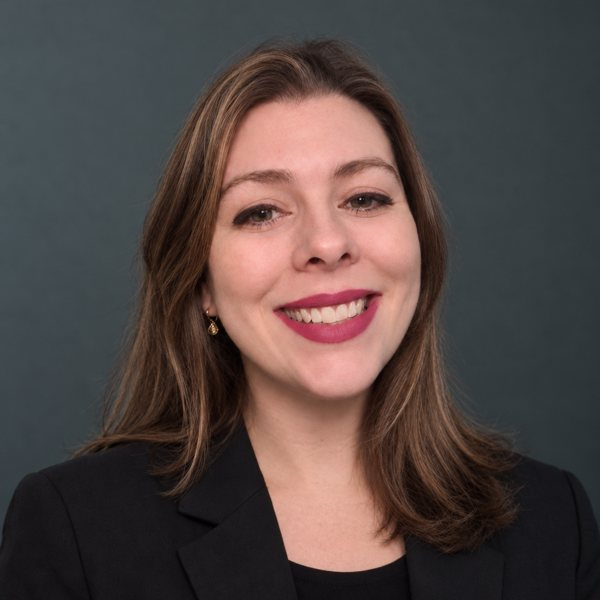
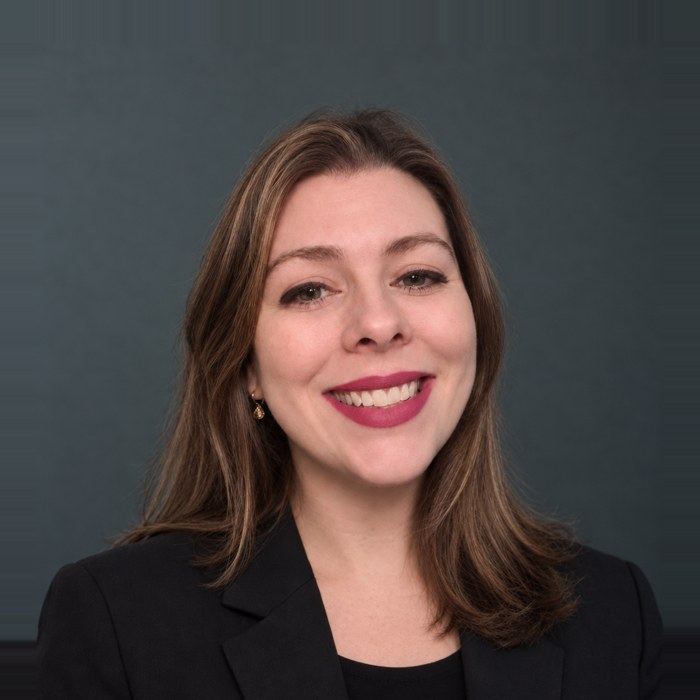
People page: fix photo scale/quality across sections
- Prudence photo re-cropped wider (edge-padded) to match Matt & Sam's scale.
- Board of directors: compact small B&W circular avatars (grid-4, grayscale) so
  the low-res 146px source renders crisp instead of enlarged/fuzzy.
- Luke & Nici: upscaled 3x (Lanczos) + unsharp mask for a sharper look, kept in
  colour on their existing background. Handover rebuilt.

Changed region(s): [[0.0, 0.06, 0.99, 0.96], [0.45, 0.84, 0.48, 0.93], [0.48, 0.93, 0.54, 0.96]]

diff --git a/css/styles.css b/css/styles.css
@@ -640,3 +640,12 @@ section { position: relative; }
 .app-pill { display: inline-flex; align-items: center; gap: 10px; border: 1.5px solid var(--line); border-radius: 999px; padding: 13px 26px; color: var(--ink-900); font-weight: 700; font-family: var(--font-head); text-decoration: none; transition: border-color .16s ease, color .16s ease, transform .16s ease; }
 .app-pill:hover { border-color: var(--blue-500); color: var(--blue-600); transform: translateY(-2px); }
 .app-pill svg { width: 20px; height: 20px; }
+
+/* Board of directors — compact black & white avatars (small display = crisp from low-res source) */
+.people-board .person { text-align: center; }
+.people-board .person .photo { width: 104px; height: 104px; aspect-ratio: auto; border-radius: 50%; margin: 22px auto 2px; overflow: hidden; filter: grayscale(1) contrast(1.04); background: var(--bg-tint); }
+.people-board .person .body { padding: 10px 18px 24px; }
+.people-board .person .role { font-size: .72rem; }
+.people-board .person h3 { font-size: 1.05rem; margin-top: 4px; }
+.people-board .person .bio { font-size: .84rem; margin-top: 8px; }
+.people-board .person .li { justify-content: center; }

diff --git a/handover/pages/people.html b/handover/pages/people.html
@@ -104,7 +104,7 @@
       <span class="eyebrow">Board of directors</span>
       <h2>Governance &amp; experience</h2>
     </div>
-    <div class="grid grid-3">
+    <div class="grid grid-4 people-board">
       <article class="person reveal">
         <div class="photo"><img src="https://www.escavox.com/wp-content/uploads/escavox-site/img/team/richard-mckinnon.png" alt="Richard McKinnon" onerror="this.style.display='none';this.nextElementSibling.style.display='grid';"><div class="initials" style="display:none">RM</div></div>
         <div class="body"><div class="role">Chair</div><h3>Richard McKinnon</h3><p class="bio">A 50-year career in business. Former investment banker who implemented a multi-billion-dollar acquisition strategy at NAB, culminating as its CFO. Chair of Escavox since 2023.</p></div>

diff --git a/people.html b/people.html
@@ -109,7 +109,7 @@
       <span class="eyebrow">Board of directors</span>
       <h2>Governance &amp; experience</h2>
     </div>
-    <div class="grid grid-3">
+    <div class="grid grid-4 people-board">
       <article class="person reveal">
         <div class="photo"><img src="assets/img/team/richard-mckinnon.png" alt="Richard McKinnon" onerror="this.style.display='none';this.nextElementSibling.style.display='grid';"><div class="initials" style="display:none">RM</div></div>
         <div class="body"><div class="role">Chair</div><h3>Richard McKinnon</h3><p class="bio">A 50-year career in business. Former investment banker who implemented a multi-billion-dollar acquisition strategy at NAB, culminating as its CFO. Chair of Escavox since 2023.</p></div>
